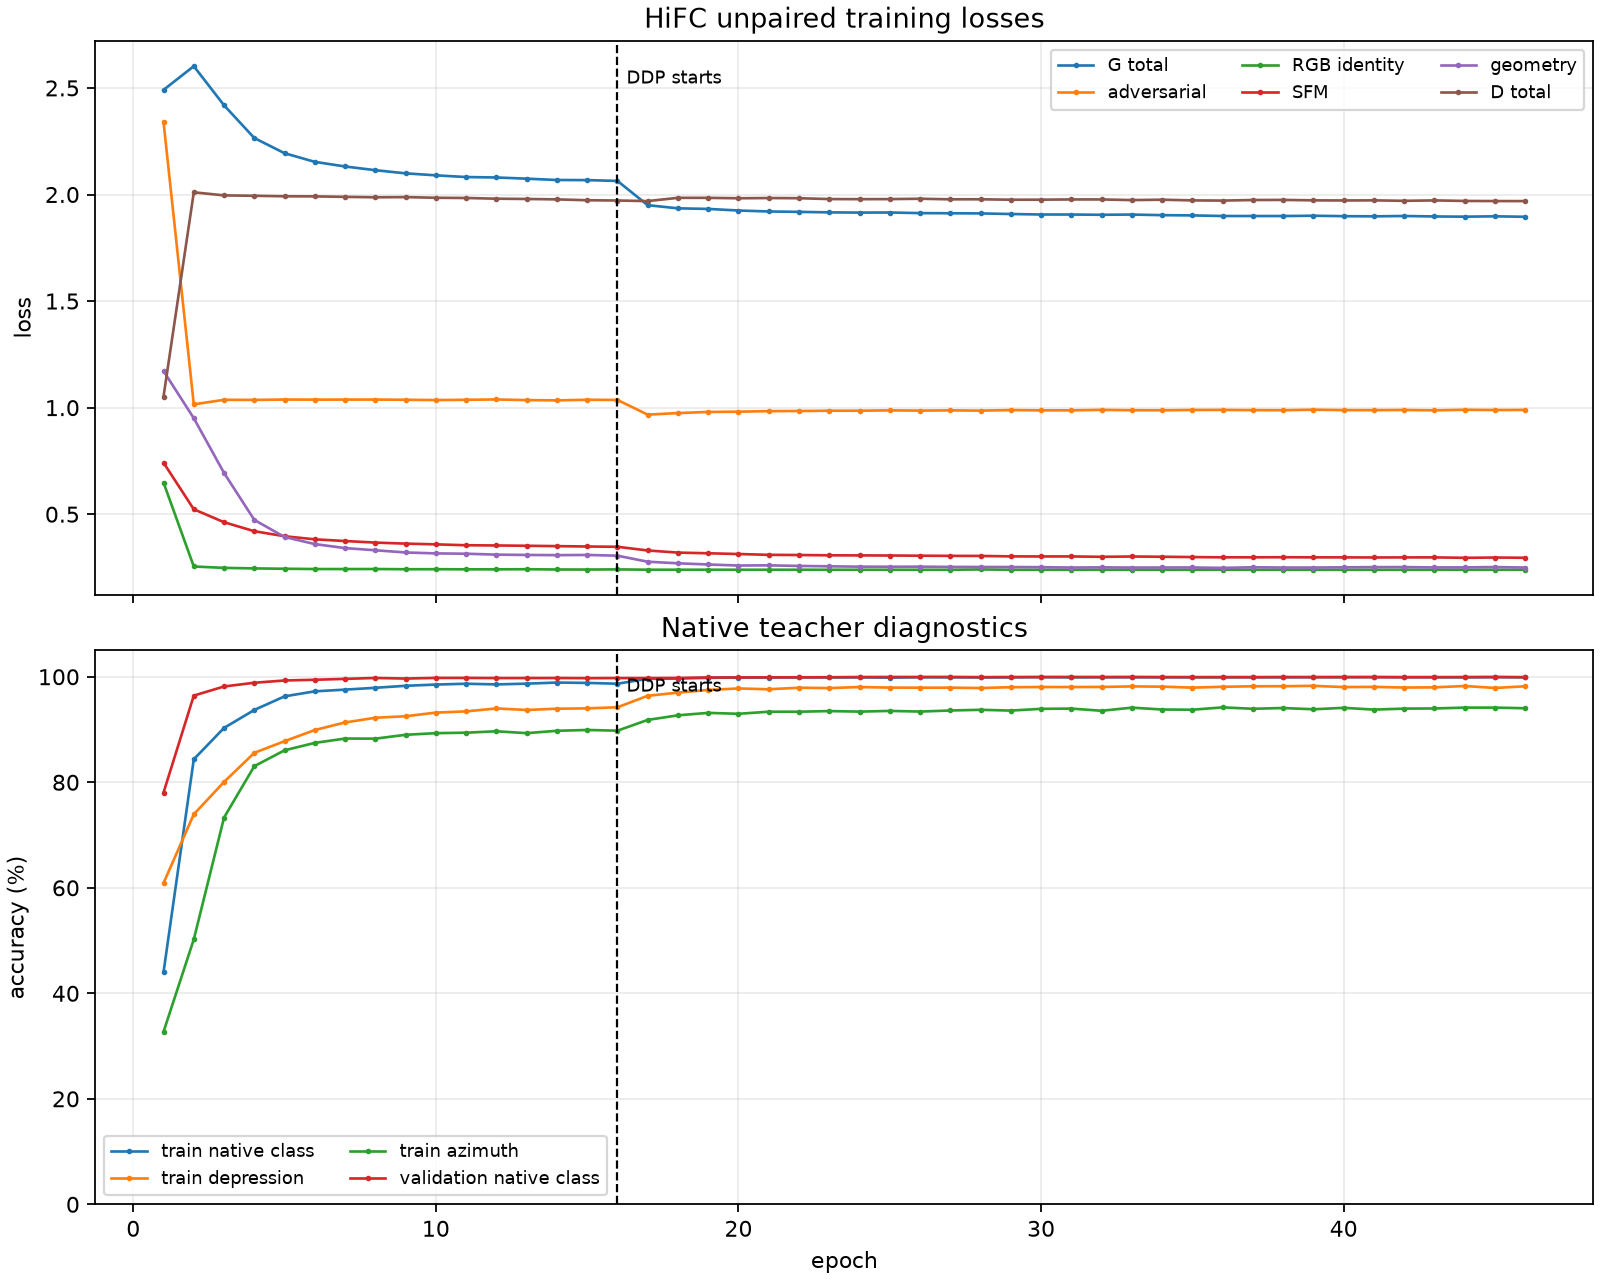
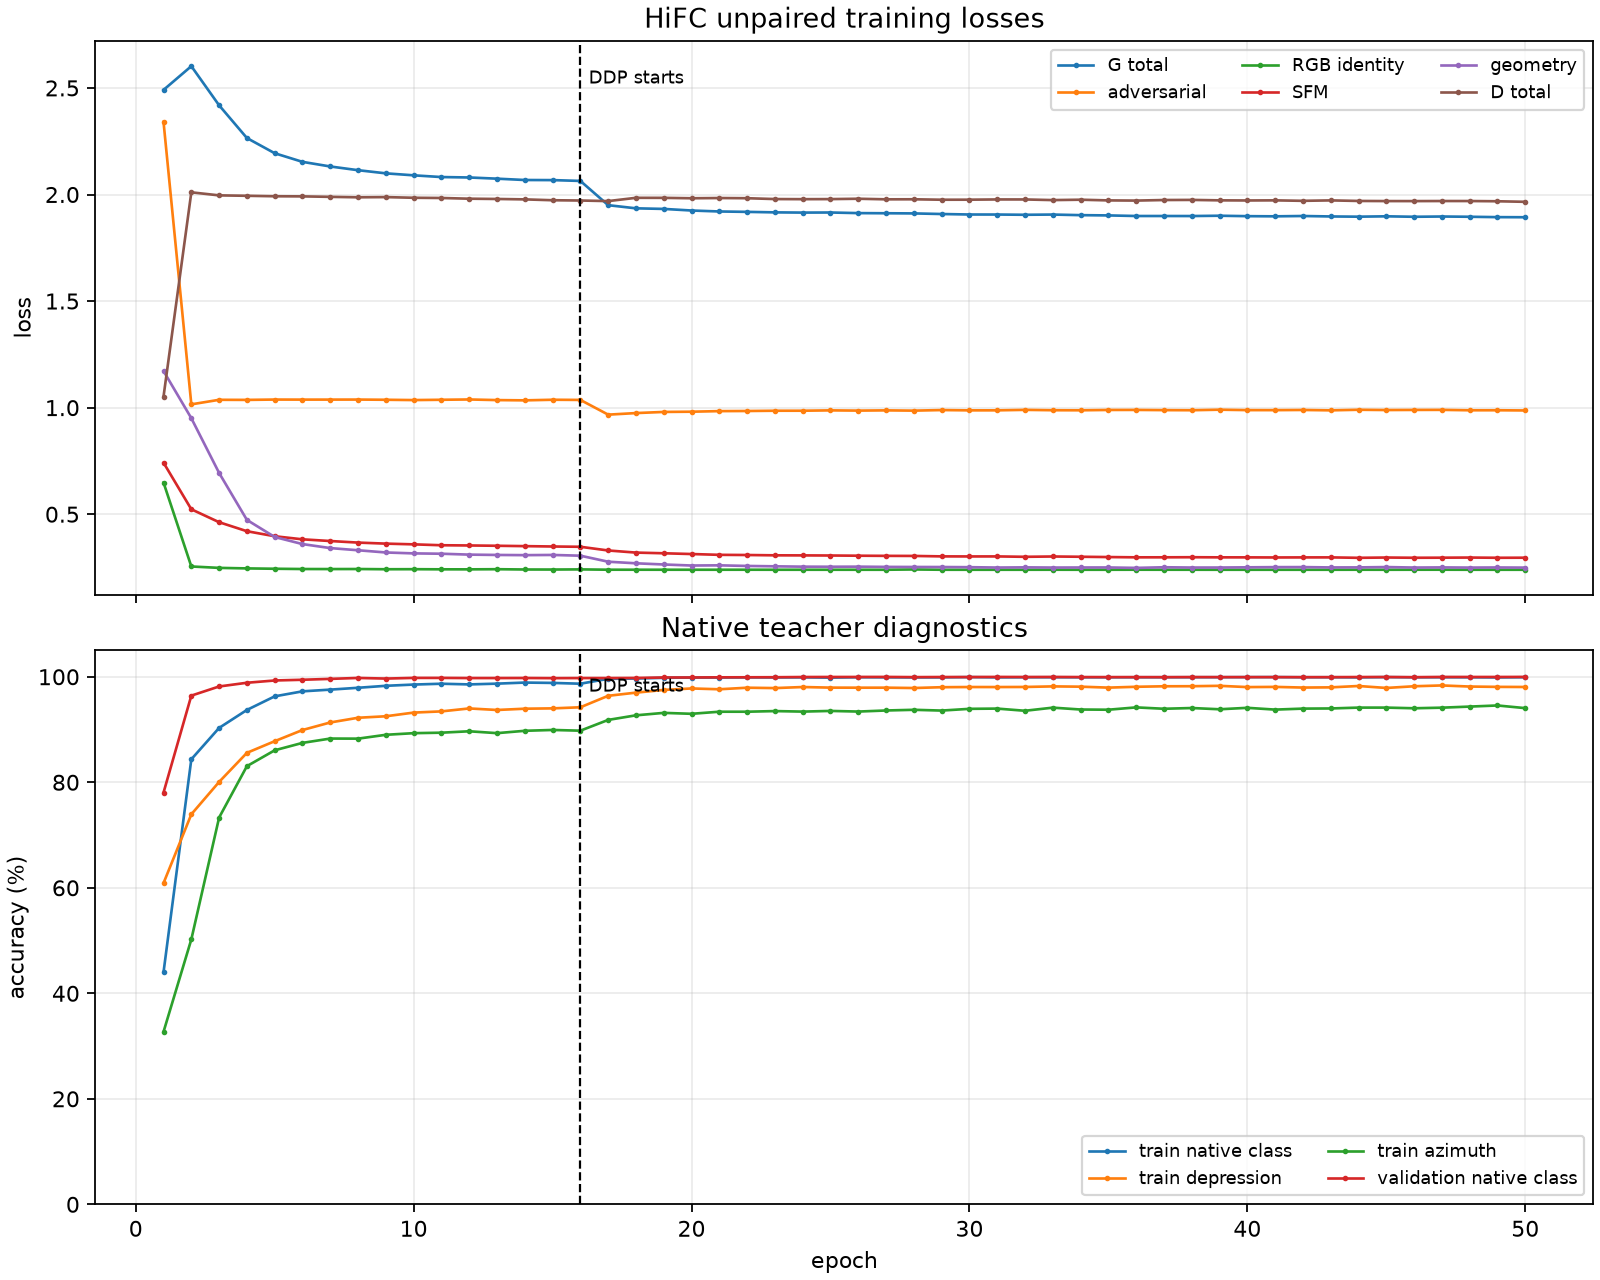
Update HiFC DDP diagnostics through epoch 50

diff --git a/visualizations/hifc_unpaired_ddp/README.md b/visualizations/hifc_unpaired_ddp/README.md
@@ -17,6 +17,8 @@ epoch 16 完成后，从同一个 `latest.pt` 继续使用 8 卡 DDP；原单卡
 
 ![loss and metrics](loss_and_metrics.png)
 
+![epoch 50 preview](validation_050.png)
+
 ![epoch 45 preview](validation_045.png)
 
 ![epoch 40 preview](validation_040.png)
@@ -32,14 +34,15 @@ epoch 16 完成后，从同一个 `latest.pt` 继续使用 8 卡 DDP；原单卡
 |---:|---|---:|---:|---:|---:|---:|---:|---:|---:|
 | 16 | single GPU | 2.0637 | 1.9718 | 0.3472 | 0.3054 | 98.68% | 94.22% | 89.78% | 99.76% |
 | 46 | 8-GPU DDP | 1.8955 | 1.9690 | 0.2957 | 0.2497 | 99.89% | 98.20% | 94.03% | 99.92% |
+| 50 | 8-GPU DDP | 1.8933 | 1.9657 | 0.2960 | 0.2495 | 99.91% | 98.06% | 94.05% | 99.97% |
 
-验证损失从 epoch16 到 epoch46：SFM `0.3193 -> 0.2949`，geometry
-`0.2645 -> 0.2375`。RGB identity 保持在约 `0.24`，判别器总损失保持在约 `1.97`。
+验证损失从 epoch16 到 epoch50：SFM `0.3193 -> 0.2943`，geometry
+`0.2645 -> 0.2389`。RGB identity 保持在约 `0.24`，判别器总损失保持在约 `1.97`。
 
 ## 文件
 
 - `validation_005_single_gpu.png`、`validation_010_single_gpu.png`、`validation_015_single_gpu.png`：单卡阶段预览
-- `validation_020.png`、`validation_030.png`、`validation_040.png`、`validation_045.png`：DDP 阶段预览
+- `validation_020.png`、`validation_030.png`、`validation_040.png`、`validation_045.png`、`validation_050.png`：DDP 阶段预览
 - `loss_and_metrics.png`：loss 和 native teacher 诊断曲线，虚线处为 DDP 切换
 - `history_single_gpu_epoch001_016.csv`、`history_ddp_epoch017_current.csv`：原始训练记录
 - `metrics_snapshot.json`：可复核的指标快照
